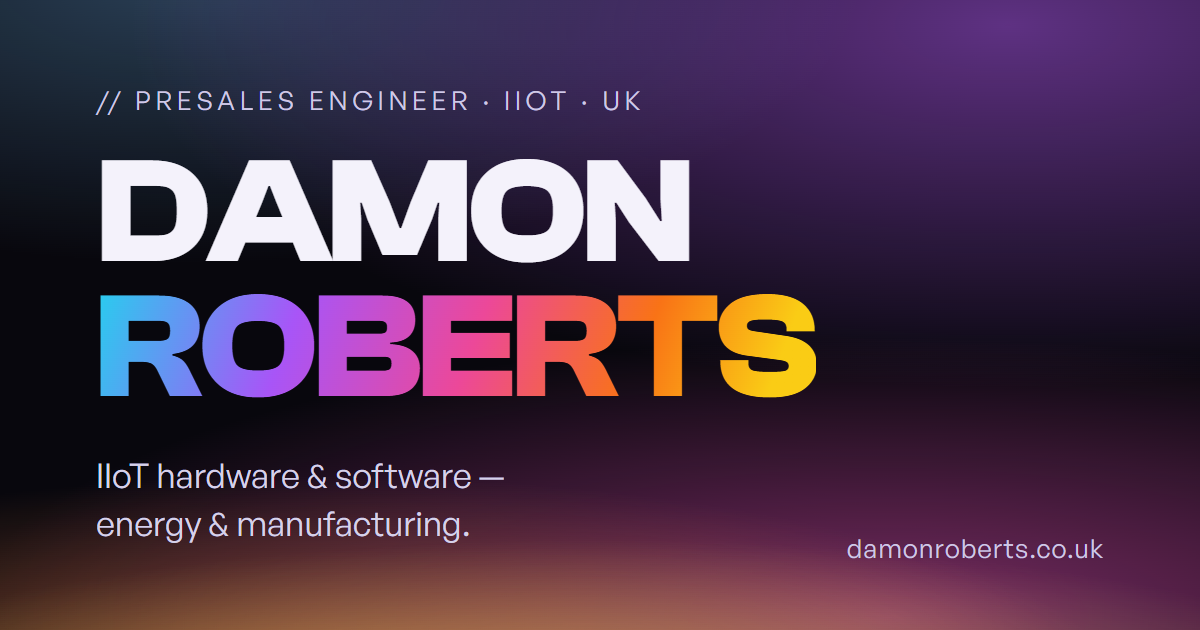
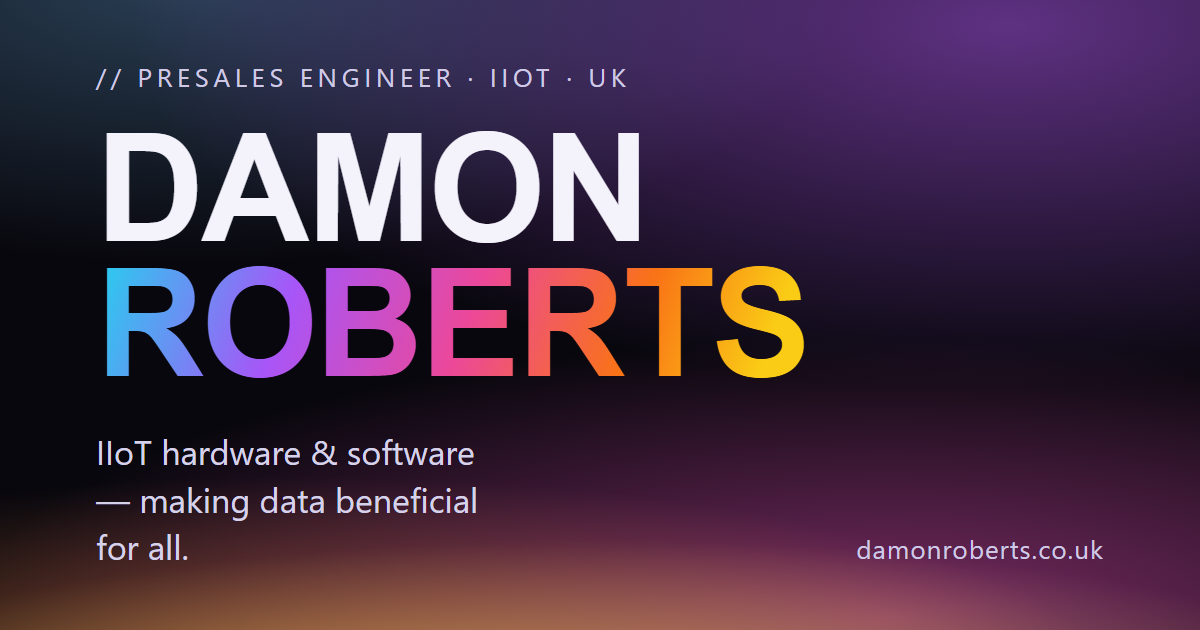
Relative touch control + update OG share card tagline
- NODE RUN touch control is now relative: a finger-press anchors the
  player where it is and dragging moves it by the finger's delta, so the
  finger never covers the player.
- Update the social share card to the current tagline ("making data
  beneficial for all") across the meta tags, og-card.html, and og.png.

diff --git a/play.js b/play.js
@@ -221,7 +221,6 @@
   // touch devices: smaller arena is harder, so ease difficulty, float the
   // player above the fingertip, and shorten the webs
   const MOBILE = window.matchMedia("(pointer: coarse)").matches;
-  const TOUCH_OFFSET = 42;
   const LINK_SCALE = MOBILE ? 0.78 : 1;
 
   let w, h, dpr = 1, linkD2;
@@ -239,13 +238,31 @@
   // player follows the pointer; start centred
   // px/py = previous frame position, vx/vy = velocity (drives ambush/predict)
   const player = { x: w / 2, y: h / 2, px: w / 2, py: h / 2, vx: 0, vy: 0, r: 7 * dpr };
+  let anchor = null; // touch: where the finger + player were when the drag began
+  const clamp01 = (v, hi) => (v < 0 ? 0 : v > hi ? hi : v);
+
+  function startTouch(e) {
+    const t = e.touches ? e.touches[0] : e;
+    if (!t) return;
+    anchor = (e.touches || e.pointerType === "touch")
+      ? { fx: t.clientX * dpr, fy: t.clientY * dpr, px: player.x, py: player.y }
+      : null;
+  }
   function movePointer(e) {
     const t = e.touches ? e.touches[0] : e;
     if (!t) return;
     const isTouch = !!e.touches || e.pointerType === "touch";
-    player.x = t.clientX * dpr;
-    player.y = t.clientY * dpr - (isTouch ? TOUCH_OFFSET * dpr : 0);
+    if (isTouch && anchor) {
+      // relative: move the player by the finger's delta from where the drag started
+      player.x = clamp01(anchor.px + (t.clientX * dpr - anchor.fx), w);
+      player.y = clamp01(anchor.py + (t.clientY * dpr - anchor.fy), h);
+    } else {
+      player.x = t.clientX * dpr;
+      player.y = t.clientY * dpr;
+    }
   }
+  addEventListener("pointerdown", startTouch, { passive: true });
+  addEventListener("touchstart", startTouch, { passive: true });
   addEventListener("pointermove", movePointer, { passive: true });
   addEventListener("touchmove", movePointer, { passive: true });
 

diff --git a/index.html b/index.html
@@ -5,13 +5,13 @@
   <meta name="viewport" content="width=device-width, initial-scale=1.0" />
   <meta name="darkreader-lock" />
   <title>Damon Roberts — Presales Engineer, IIoT</title>
-  <meta name="description" content="Damon Roberts — presales engineer working with IIoT hardware and software, with a passion for energy and manufacturing." />
+  <meta name="description" content="Damon Roberts — presales engineer working with IIoT hardware and software, with a passion for making data beneficial for all." />
   <meta name="theme-color" content="#08070d" />
   <link rel="canonical" href="https://damonroberts.co.uk/" />
 
   <!-- Open Graph -->
   <meta property="og:title" content="Damon Roberts" />
-  <meta property="og:description" content="Presales engineer working with IIoT hardware and software, with a passion for energy and manufacturing." />
+  <meta property="og:description" content="Presales engineer working with IIoT hardware and software, with a passion for making data beneficial for all." />
   <meta property="og:type" content="website" />
   <meta property="og:url" content="https://damonroberts.co.uk/" />
   <meta property="og:image" content="https://damonroberts.co.uk/og.png" />
@@ -21,7 +21,7 @@
   <!-- Twitter -->
   <meta name="twitter:card" content="summary_large_image" />
   <meta name="twitter:title" content="Damon Roberts" />
-  <meta name="twitter:description" content="Presales engineer working with IIoT hardware and software, with a passion for energy and manufacturing." />
+  <meta name="twitter:description" content="Presales engineer working with IIoT hardware and software, with a passion for making data beneficial for all." />
   <meta name="twitter:image" content="https://damonroberts.co.uk/og.png" />
 
   <link rel="icon" href="favicon.svg" type="image/svg+xml" />

diff --git a/og-card.html b/og-card.html
@@ -49,7 +49,7 @@
 <body>
   <div class="eyebrow">// presales engineer &middot; iiot &middot; uk</div>
   <h1>DAMON<br /><span class="grad">ROBERTS</span></h1>
-  <p class="tag">IIoT hardware &amp; software &mdash; energy &amp; manufacturing.</p>
+  <p class="tag">IIoT hardware &amp; software &mdash; making data beneficial for all.</p>
   <div class="url">damonroberts.co.uk</div>
 </body>
 </html>
